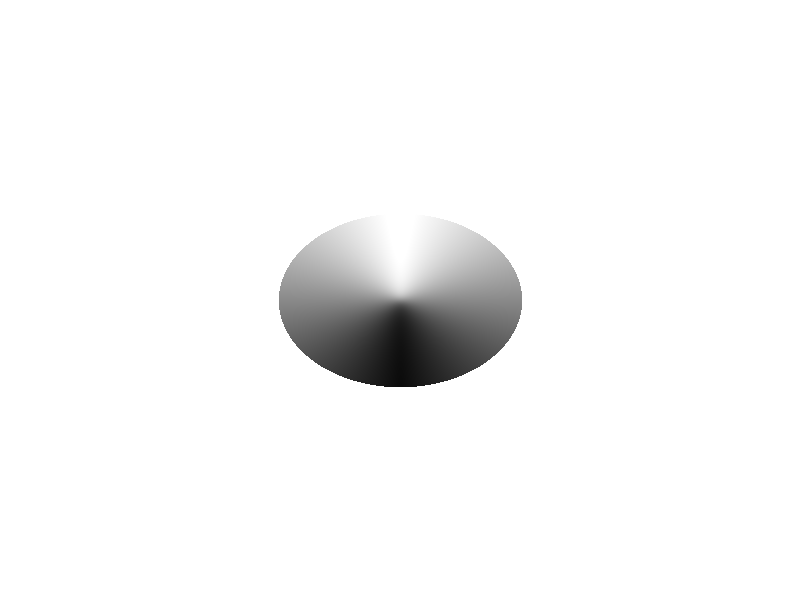
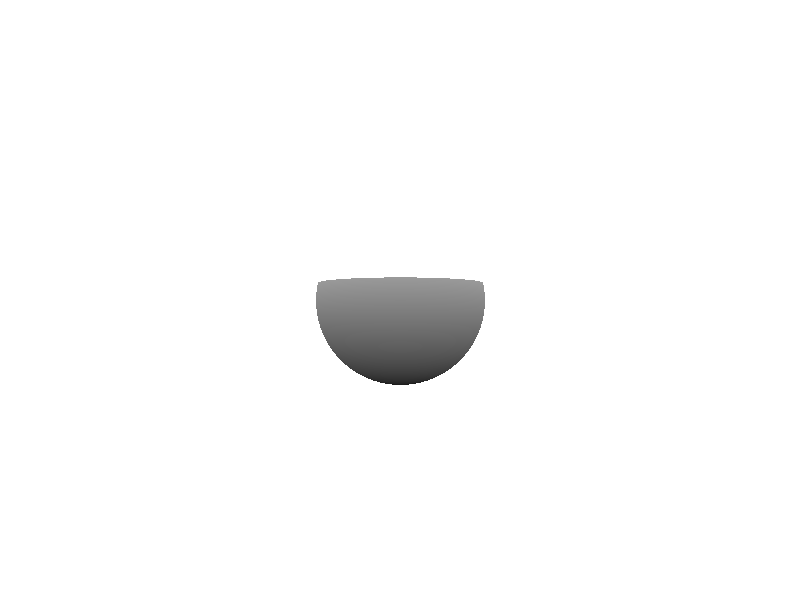
Things render upside down, but the camera is now officially working! Will need to investigate why things render upsidedown. Plane intersection test now working.

Changed region(s): [[0.3438, 0.36, 0.6562, 0.66]]

diff --git a/Primitive.h b/Primitive.h
@@ -4,7 +4,12 @@
 #include "Ray.h"
 #include <Furrovine++/unreachable.h>
 #include <Furrovine++/optional.h>
-#include <Furrovine++/THit.h>
+#include <Furrovine++/THit3.h>
+#include <Furrovine++/RSphere.h>
+#include <Furrovine++/RTriangle3.h>
+#include <Furrovine++/RDisk3.h>
+#include <Furrovine++/RPlane.h>
+#include <Furrovine++/intersect3.h>
 
 struct sphere_arg_t { };
 const auto sphere_arg = sphere_arg_t{ };
@@ -29,8 +34,8 @@ struct TPrimitive {
 	union {
 		Fur::RSphere<T> sphere;
 		Fur::RPlane<T> plane;
-		Fur::RTriangle<T> triangle;
-		Fur::RDisk<T> disk;
+		Fur::RTriangle3<T> triangle;
+		Fur::RDisk3<T> disk;
 	};
 
 	TPrimitive( const Fur::RSphere<T>& sphere ) : id( PrimitiveId::Sphere ), sphere( sphere ) {
@@ -41,11 +46,11 @@ struct TPrimitive {
 
 	}
 
-	TPrimitive( const Fur::RTriangle<T>& triangle ) : id( PrimitiveId::Triangle ), triangle( triangle ) {
+	TPrimitive( const Fur::RTriangle3<T>& triangle ) : id( PrimitiveId::Triangle ), triangle( triangle ) {
 
 	}
 
-	TPrimitive( const Fur::RDisk<T>& disk ) : id( PrimitiveId::Disk ), disk( disk ) {
+	TPrimitive( const Fur::RDisk3<T>& disk ) : id( PrimitiveId::Disk ), disk( disk ) {
 
 	}
 
@@ -68,7 +73,7 @@ struct TPrimitive {
 };
 
 template <typename T>
-Fur::optional<Fur::THit<T>> intersect( const Fur::TRay3<T>& ray, const TPrimitive<T>& target ) {
+Fur::optional<Fur::THit3<T>> intersect( const Fur::TRay3<T>& ray, const TPrimitive<T>& target ) {
 	switch ( target.id ) {
 	case PrimitiveId::Plane:
 		return Fur::intersect( ray, target.plane );
@@ -83,7 +88,8 @@ Fur::optional<Fur::THit<T>> intersect( const Fur::TRay3<T>& ray, const TPrimitiv
 }
 
 typedef Fur::RPlane<real> Plane;
-typedef Fur::RTriangle<real> Triangle;
+typedef Fur::RTriangle3<real> Triangle;
 typedef Fur::RSphere<real> Sphere;
+typedef Fur::RDisk3<real> Disk;
 typedef TPrimitive<real> Primitive;
-typedef Fur::THit<real> Hit;
+typedef Fur::THit3<real> Hit;

diff --git a/Camera.h b/Camera.h
@@ -2,31 +2,33 @@
 
 #include "real.h"
 #include "Ray.h"
+#include <Furrovine++/Graphics/Camera3D.h>
+#include <Furrovine++/Viewport.h>
 
 class Camera {
 private:
+	Vec3 referenceup;
 	Vec3 position, target, direction, up, right, forward;
+	real nearplane;
 
 public:
 
-	Camera( Vec3 pos, Vec3 lookat ) : position( pos ), target( lookat ) {
+	Camera( Vec3 pos, Vec3 lookat, float nearplane = 1.0f, Vec3 referenceup = Vec3::Up ) : position( pos ), target( lookat ), referenceup( referenceup ), nearplane( nearplane ) {
 		direction = target - position;
 		forward = direction;
 		forward.normalize( );
-		right = normalize( cross( forward == Vec3::Up || -forward == Vec3::Up ? Vec3::Right : Vec3::Up, forward ) );
+		bool forwardisup = forward == referenceup || -forward == referenceup;
+		right = normalize( cross( referenceup, forward ) );
 		up = normalize( cross( forward, right ) );
 	}
 
 	Ray Compute( real x, real y, real width, real height ) const {
-		real normalizedi = ( x / width ) - static_cast<real>( 0.5 );
-		real normalizedj = ( y / height ) - static_cast<real>( 0.5 );
-		normalizedi *= width;
-		normalizedj *= height;
-		Vec3 imageplanepoint = normalizedi * right +
-			normalizedj * up +
-			position + direction;
-		Vec3 raydir = imageplanepoint - position;
-		raydir.normalize( );
-		return Ray( position, raydir );
+		x -= width / 2;
+		y -= height / 2;
+		Vec3 dir = x * right + y * up + nearplane * forward;
+		dir.normalize( );
+
+		return Ray( position, dir );
 	}
+
 };

diff --git a/ImageOutput.h b/ImageOutput.h
@@ -2,20 +2,20 @@
 
 #include "Output.h"
 #include <Furrovine++/Graphics/Image2D.h>
-#include <Furrovine++/buffer2d_view.h>
 #include <Furrovine++/ByteColor.h>
 #include <Furrovine++/Pipeline/PNGSaver.h>
 #include <Furrovine++/Strings.h>
 
-  class ImageOutput : public Output {
+class ImageOutput : public Output {
 private:
 	Fur::Graphics::Image2D* image;
-	Fur::buffer2d_view<Fur::ByteColor> imagepixels;
+	Fur::buffer_view2<Fur::ByteColor> imagepixels;
 	Fur::String outputname;
 
 public:
 
-	ImageOutput( Fur::Graphics::Image2D& img, const Fur::String& name = "output.png" ) : image( std::addressof( img ) ), imagepixels( Fur::make_buffer2d_view_as<Fur::ByteColor>( *image ) ), outputname( name ) {
+	ImageOutput( Fur::Graphics::Image2D& img, const Fur::String& name = "output.png" ) 
+	: image( std::addressof( img ) ), imagepixels( Fur::make_buffer_view_as<Fur::ByteColor>( image->data(), image->WidthStride(), image->HeightStride() ) ), outputname( name ) {
 
 	}
 
@@ -27,6 +27,7 @@ public:
 	virtual void Set( real x, real y, const rgba& pixel ) override {
 		std::size_t ix = static_cast<std::size_t>( x );
 		std::size_t iy = static_cast<std::size_t>( y );
+		
 		Fur::ByteColor& datapixel = imagepixels( ix, iy );
 		rgba clampedpixel = Fur::clamp( pixel );
 		datapixel = clampedpixel;

diff --git a/main.cpp b/main.cpp
@@ -9,7 +9,6 @@
 #include <Furrovine++/WindowDriver.h>
 #include <Furrovine++/Graphics/GraphicsDevice.h>
 #include <Furrovine++/Graphics/Image2D.h>
-#include <Furrovine++/buffer2d_view.h>
 #include <Furrovine++/Stopwatch.h>
 #include <Furrovine++/Colors.h>
 #include <iostream>
@@ -52,11 +51,11 @@ int main( ) {
 	std::fill_n( image.data( ), image.size( ), 0 );
 	ImageOutput output( image );
 	Scene scene;
-	scene.Add( sphere_arg, 5.0f, Vec3( 0, 0, 0 ) );
-	//scene.Add( plane_arg, 0.0f, Vec3( 0, 1, 0 ) );
+	scene.Add( sphere_arg, 50.0f, Vec3::Zero );
+	scene.Add( plane_arg, 40.0f, Vec3::Up );
 	scene.AddAmbientLight( 0.04f, 0.04f, 0.04f, 1.0f );
 	scene.AddDirectionalLight( Vec3::Down );
-	Camera camera( Vec3( 0, 0, -20 ), Vec3(0, 0, -5) );
+	Camera camera( Vec3( 0, 60, -300 ), Vec3::Zero, 500.0f );
 
 	Stopwatch stopwatch;                
 	WindowDriver windowdriver;

diff --git a/real.h b/real.h
@@ -6,6 +6,7 @@
 #include <Furrovine++/TNormal2.h>
 #include <Furrovine++/TNormal3.h>
 #include <Furrovine++/TNormal4.h>
+#include <Furrovine++/Matrix.h>
 
 namespace Fur = Furrovine;
 
@@ -14,9 +15,11 @@ typedef float real;
 typedef Fur::TNormal2<real> Norm2;
 typedef Fur::TNormal3<real> Norm3;
 typedef Fur::TNormal4<real> Norm4;
+typedef Fur::TMatrix4<real> Mat4;
 typedef Fur::TVector2<real> Vec2;
 typedef Fur::TVector3<real> Vec3;
 typedef Fur::TVector4<real> Vec4;
+typedef Fur::TMatrix4<real> RMat4;
 typedef Fur::RVector2<real> RVec2;
 typedef Fur::RVector3<real> RVec3;
 typedef Fur::RVector4<real> RVec4;

diff --git a/Scene.h b/Scene.h
@@ -70,8 +70,6 @@ public:
 				t0 = hit->distance0;
 			}
 		}
-		if ( closesthit )
-			normalize( closesthit->second.normal );
 		return closesthit;
 	}
 
@@ -86,7 +84,7 @@ public:
 		};
 
 		for ( std::size_t a = 0; a < ambientlights.size( ); ++a ) {
-			color += ambientlights[ a ];
+			color += ambientlights[ a ] * material.diffuse;
 		}
 		for ( std::size_t p = 0; p < directionallights.size( ); ++p ) {
 			diffusedirectional( directionallights[ p ].direction );
